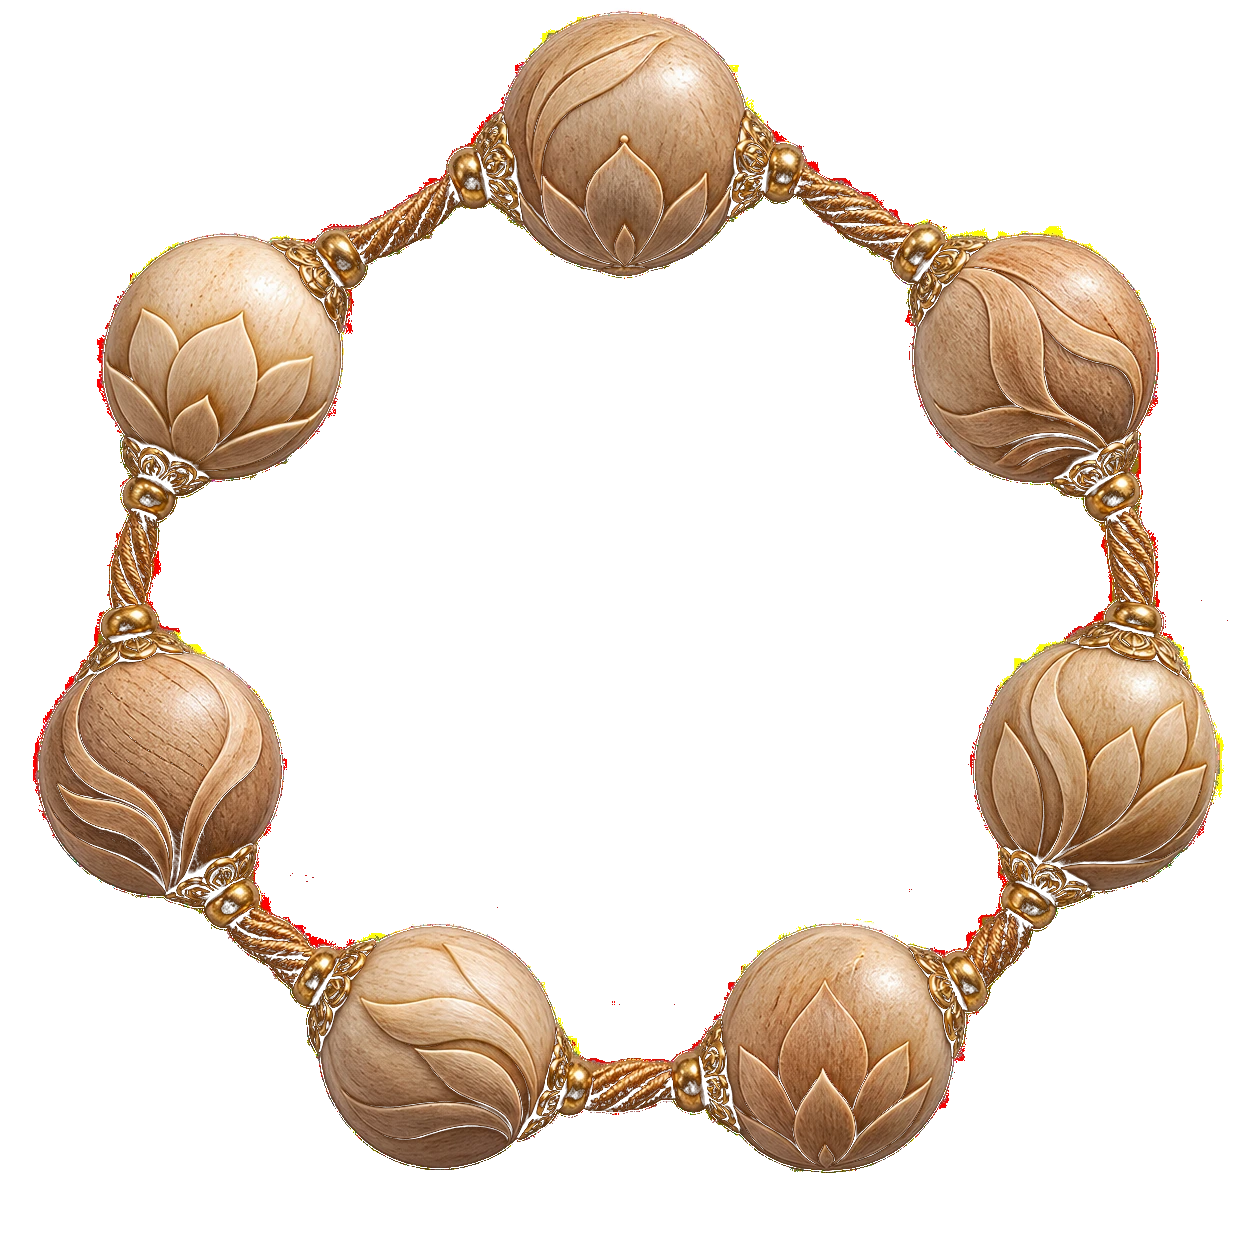
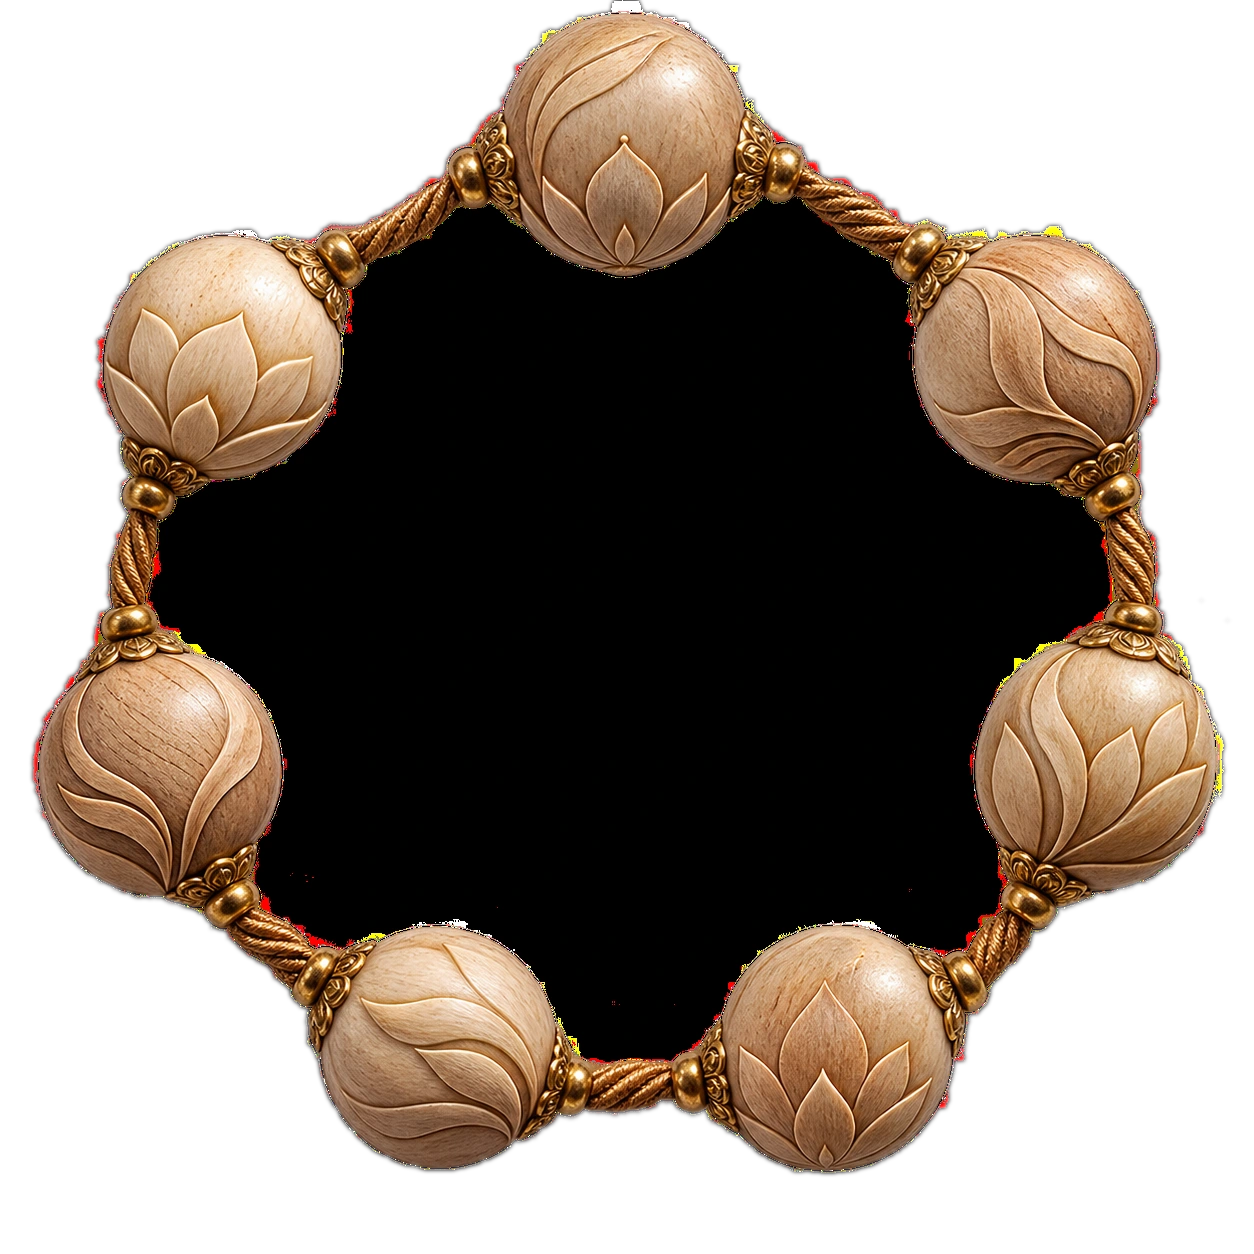
Fix purpose card text + improved mala bg removal
Purpose cards:
- Remove .purpose-card from paper-texture rule (line 379) — it was
  overriding the dark night background, making cream text invisible
- Fix responsive rule at 640px for same reason

Mala image:
- Reprocess with BFS flood-fill from corners (true background mask)
- Gaussian feather on fg/bg boundary for smooth edge
- Colour-fringe suppression on semi-transparent pixels
- Replaces previous luminance-threshold version

diff --git a/styles.css b/styles.css
@@ -376,7 +376,7 @@ body{background-color:var(--cream);background-image:linear-gradient(rgba(255,248
 .purpose:after,.offerings:after,.members:after{content:"";position:absolute;z-index:0;top:0;bottom:0;width:min(27vw,390px);background:url("assets/extracted/orange-watercolor-accent-cream.webp") left center/cover no-repeat;mix-blend-mode:multiply;opacity:.14;pointer-events:none}
 .purpose:after,.members:after{right:0;transform:scaleX(-1)}
 .offerings:after{left:0}
-.purpose-card,.offering-card{background-color:rgba(255,248,241,.9);background-image:linear-gradient(rgba(255,248,241,.78),rgba(255,248,241,.84)),url("assets/extracted/card-paper-texture.webp");background-size:auto,560px auto;background-blend-mode:normal,multiply;border-color:rgba(96,56,19,.14)}
+.offering-card{background-color:rgba(255,248,241,.9);background-image:linear-gradient(rgba(255,248,241,.78),rgba(255,248,241,.84)),url("assets/extracted/card-paper-texture.webp");background-size:auto,560px auto;background-blend-mode:normal,multiply;border-color:rgba(96,56,19,.14)}
 
 /* The footer uses the full-colour official lockup on warm brand stock; the tab uses the simplified lotus mark. */
 .footer .footer-logo{width:184px;height:auto;margin:0 0 6px;padding:0;background:transparent;border:0;box-shadow:none}
@@ -385,7 +385,7 @@ body{background-color:var(--cream);background-image:linear-gradient(rgba(255,248
 @media(max-width:640px){
   .about,.purpose,.offerings,.members{background-size:auto,760px auto}
   .purpose:after,.offerings:after,.members:after{width:38vw;opacity:.09}
-  .purpose-card,.offering-card,.member-photo{background-size:auto,430px auto}
+  .offering-card,.member-photo{background-size:auto,430px auto}
 }
 
 /* Compact editorial framing: keep each section's main idea visible within one comfortable viewport. */
@@ -762,10 +762,10 @@ h1{line-height:1.18;letter-spacing:-.032em;font-variant-ligatures:no-common-liga
 .mala-art-wrap{position:absolute;inset:0;display:flex;align-items:center;justify-content:center;padding:10%}
 .mala-art{width:100%;height:100%;object-fit:contain;transition:opacity .5s ease}
 .mala-art.is-changing{opacity:0}
-.mala-label{position:absolute;bottom:0;left:0;right:0;padding:0 8% 9%;text-align:center;background:linear-gradient(transparent,rgba(253,240,216,.88) 32%)}
-.mala-numeral{display:block;font-family:var(--serif);font-size:.58rem;color:var(--gold);letter-spacing:.2em;opacity:.8;margin-bottom:2px;transition:opacity .4s ease}
-.mala-deva{margin:0;font-family:var(--deva);font-size:clamp(.85rem,2.5vw,1.5rem);color:var(--brown);line-height:1.1;transition:opacity .4s ease}
-.mala-meaning{margin:3px 0 0;font-family:var(--serif);font-style:italic;font-size:clamp(.52rem,1.3vw,.75rem);color:var(--muted);letter-spacing:.04em;transition:opacity .4s ease}
+.mala-label{position:absolute;bottom:0;left:0;right:0;padding:0 6% 10%;text-align:center;background:linear-gradient(transparent,rgba(253,235,210,.92) 28%)}
+.mala-numeral{display:block;font-family:var(--serif);font-size:.54rem;color:var(--gold);letter-spacing:.22em;opacity:.75;margin-bottom:3px;transition:opacity .4s ease}
+.mala-deva{margin:0;font-family:var(--deva);font-size:clamp(.95rem,2.8vw,1.65rem);font-weight:600;color:var(--brown);line-height:1.05;transition:opacity .4s ease;text-shadow:0 1px 0 rgba(255,255,255,.5)}
+.mala-meaning{margin:4px 0 0;font-family:var(--serif);font-style:italic;font-size:clamp(.55rem,1.4vw,.78rem);color:var(--muted);letter-spacing:.06em;transition:opacity .4s ease}
 .mala-numeral.is-changing,.mala-deva.is-changing,.mala-meaning.is-changing{opacity:0}
 @media(max-width:560px){
   .mala-scene{margin:36px auto 0;width:min(440px,96vw)}

diff --git a/index.html b/index.html
@@ -18,7 +18,7 @@
   <link rel="preconnect" href="https://fonts.googleapis.com">
   <link rel="preconnect" href="https://fonts.gstatic.com" crossorigin>
   <link href="https://fonts.googleapis.com/css2?family=Cormorant+Garamond:ital,wght@0,500;1,500&family=Inter:wght@300;400;500;600&family=Noto+Serif+Devanagari:wght@500&family=Playfair+Display:ital,wght@0,400;0,500;0,600;1,400&display=swap" rel="stylesheet">
-  <link rel="stylesheet" href="styles.css?v=28">
+  <link rel="stylesheet" href="styles.css?v=29">
   <script type="application/ld+json">{"@context":"https://schema.org","@type":"Organization","name":"Vaishvik Adhyatmik Chitranagari Samiti","alternateName":"VACS","url":"https://www.vacstrust.org/","email":"acc.vacs27@gmail.com","telephone":"+91-7400118626","description":"Global Spiritual Film & Entertainment Association","address":{"@type":"PostalAddress","streetAddress":"Ground Floor, Office No. 03, Sai Pride CHS, Plot No. 219, Sector 21, Kamothe","addressLocality":"Navi Mumbai","addressRegion":"Maharashtra","postalCode":"410209","addressCountry":"IN"}}</script>
 </head>
 <body>
